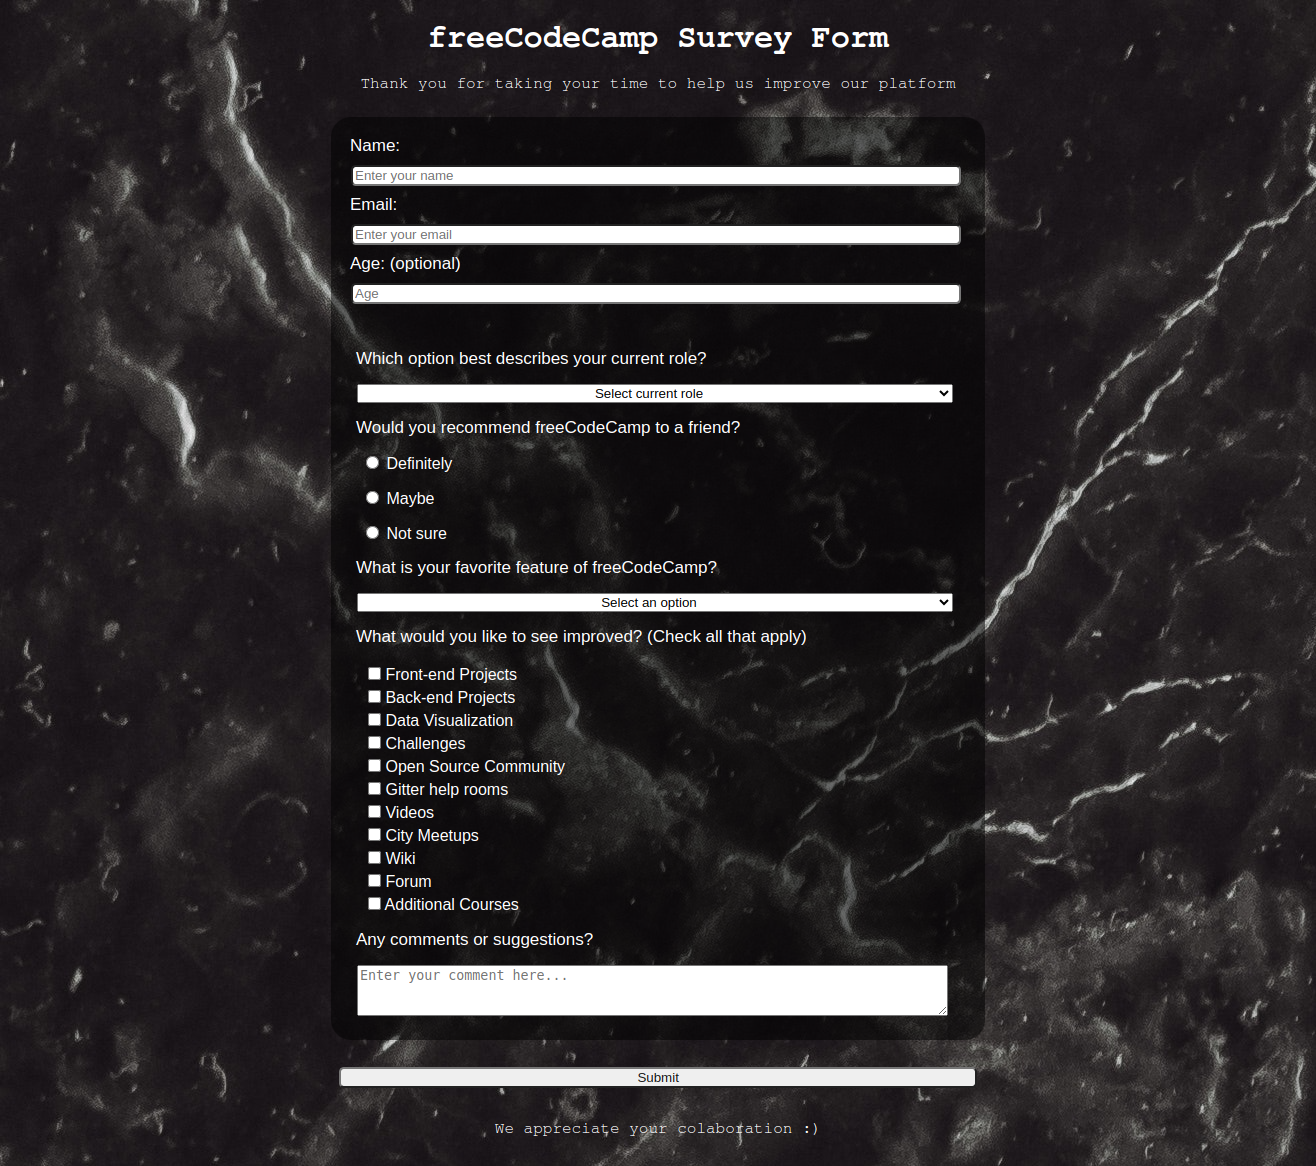
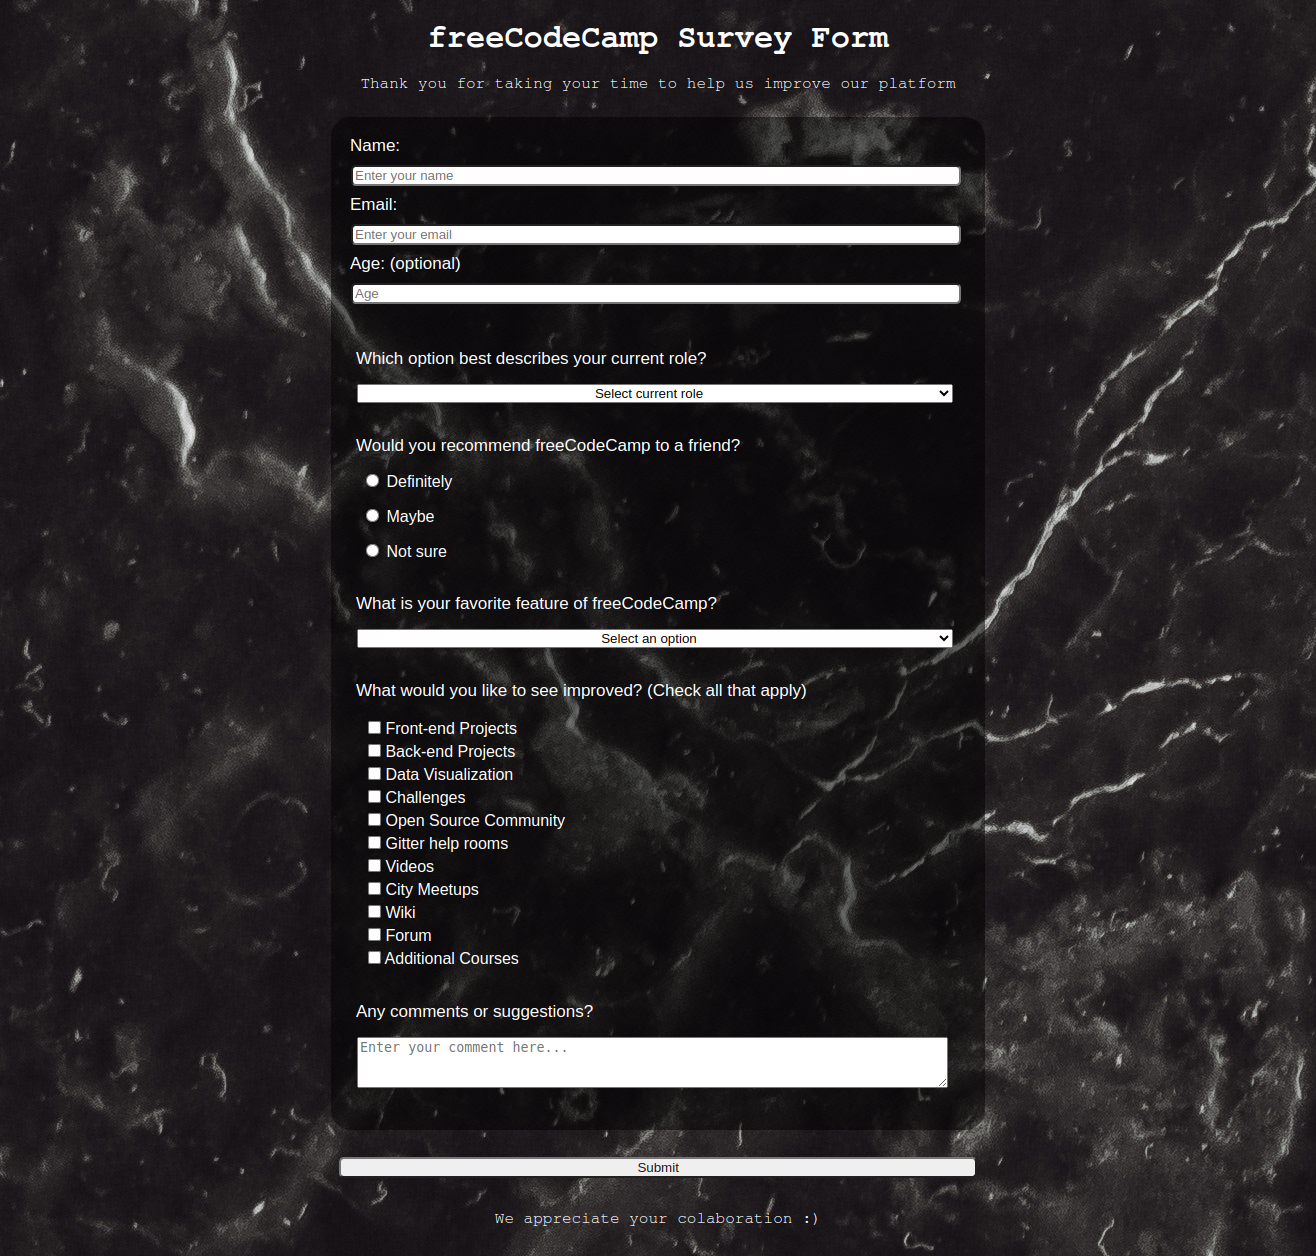
Alteração nos espaçamentos

diff --git a/index.html b/index.html
@@ -12,6 +12,7 @@
         <p id="description">Thank you for taking your time to help us improve our platform</p>
             <form id="survey-form">
                 <fieldset id="personal-information">
+                    
                     <label for="name" id="name-label">Name: </label>
                         <input required id="name" type="text" placeholder="Enter your name" />
                     <label for="email" id="email-label">Email: </label>
@@ -30,7 +31,9 @@
                                 <option value="4">Prefer not to say</option>
                                 <option value="5">Other</option>
                             </select>
-
+                        
+                        <br>
+                        <br>
                         <label>Would you recommend freeCodeCamp to a friend?</label>
                             <label for="definitely"></label>
                                 <input class="inline" type="radio" id="definitely" name="recommendation" value="definitely"> Definitely
@@ -39,6 +42,8 @@
                             <label for="not-sure"></label>
                                 <input class="inline" type="radio" id="not-sure" name="recommendation" value="not-sure"> Not sure
 
+                        <br>
+                        <br>
                         <label for="feature">What is your favorite feature of freeCodeCamp?</label>
                             <select  id="feature">
                                 <option value="">Select an option</option>
@@ -48,6 +53,8 @@
                                 <option value="4">Open Source</option>
                             </select>
 
+                        <br>
+                        <br>
                         <label>What would you like to see improved? (Check all that apply)</label>
                             <input type="checkbox" id="0" value="0"> Front-end Projects<br>
                             <input type="checkbox" id="1" value="1"> Back-end Projects<br>
@@ -61,8 +68,11 @@
                             <input type="checkbox" id="9" value="9"> Forum<br>
                             <input type="checkbox" id="10" value="10"> Additional Courses<br>
 
+                        <br>
                         <label for="comments">Any comments or suggestions?</label>
                         <textarea id="comments" name="comments" rows="3" cols="71" placeholder="Enter your comment here..."></textarea>
+                        <br>
+                        <br>
                 </fieldset>
                 <input id="submit" type="submit" value="Submit" />
             </form>
